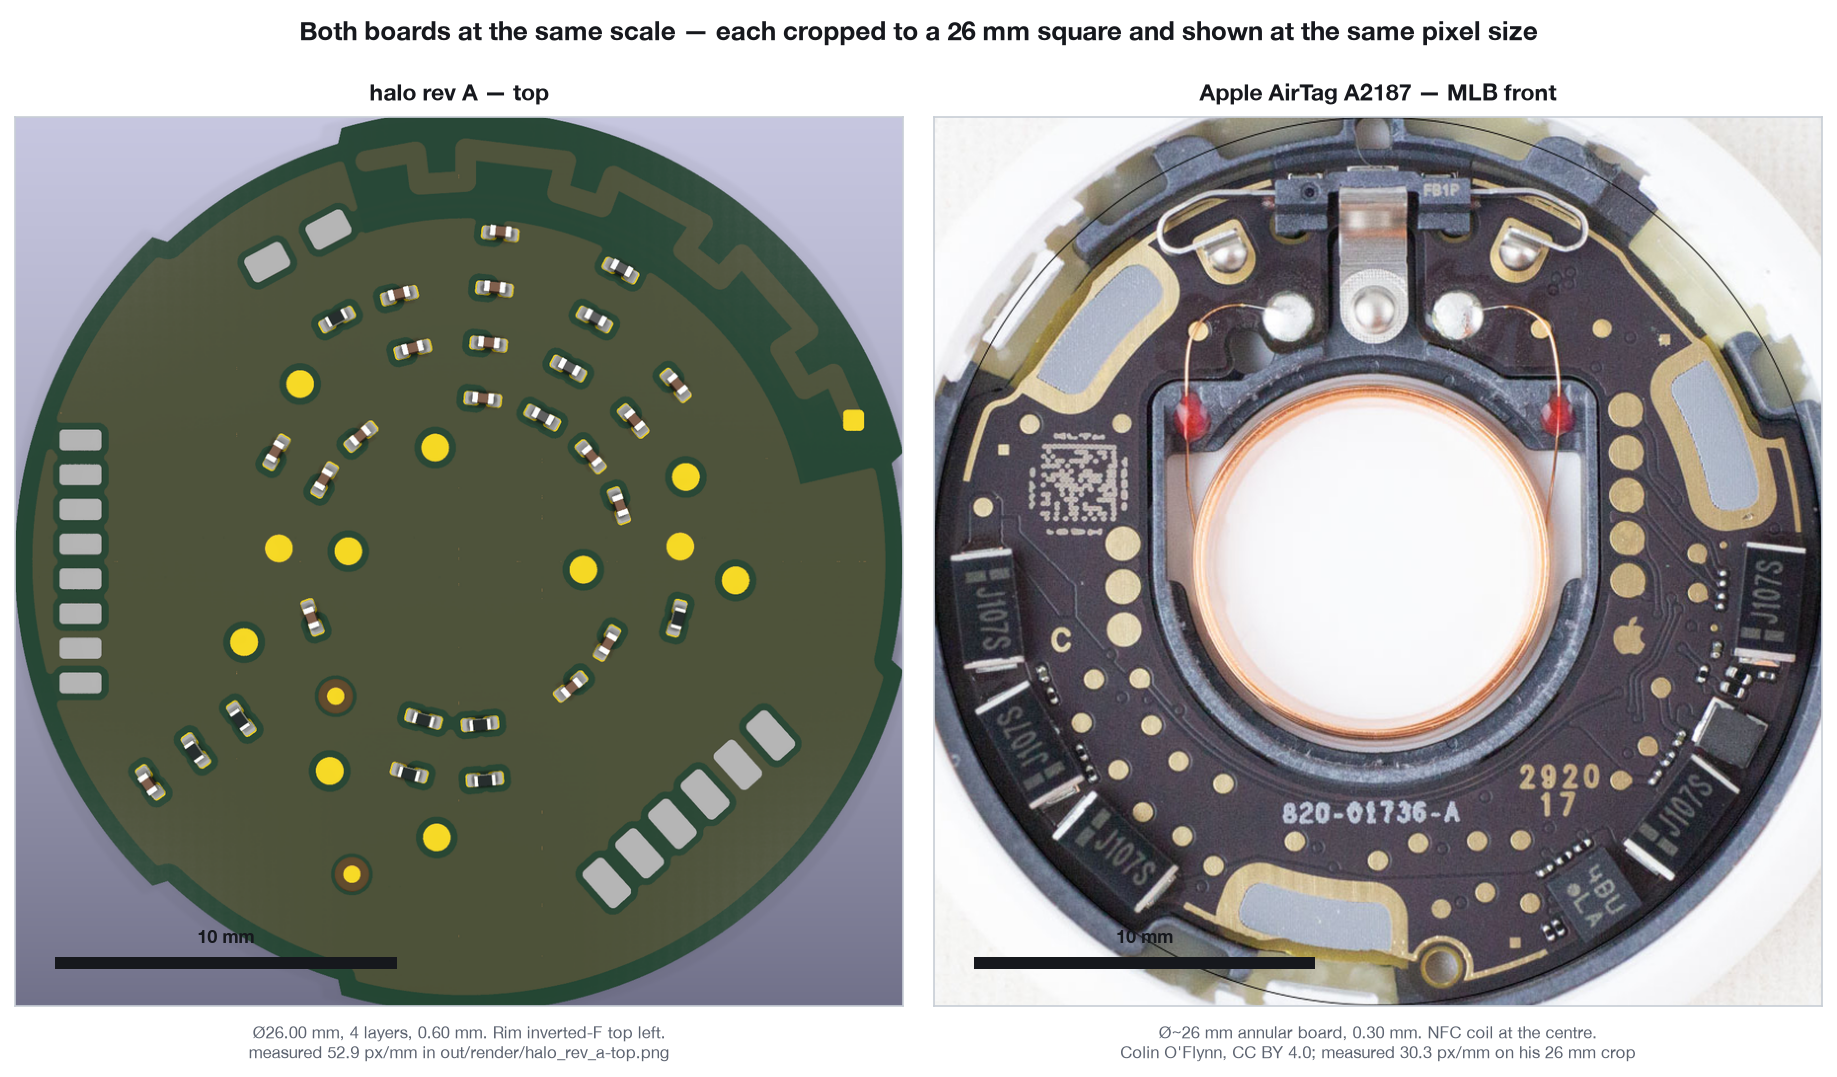
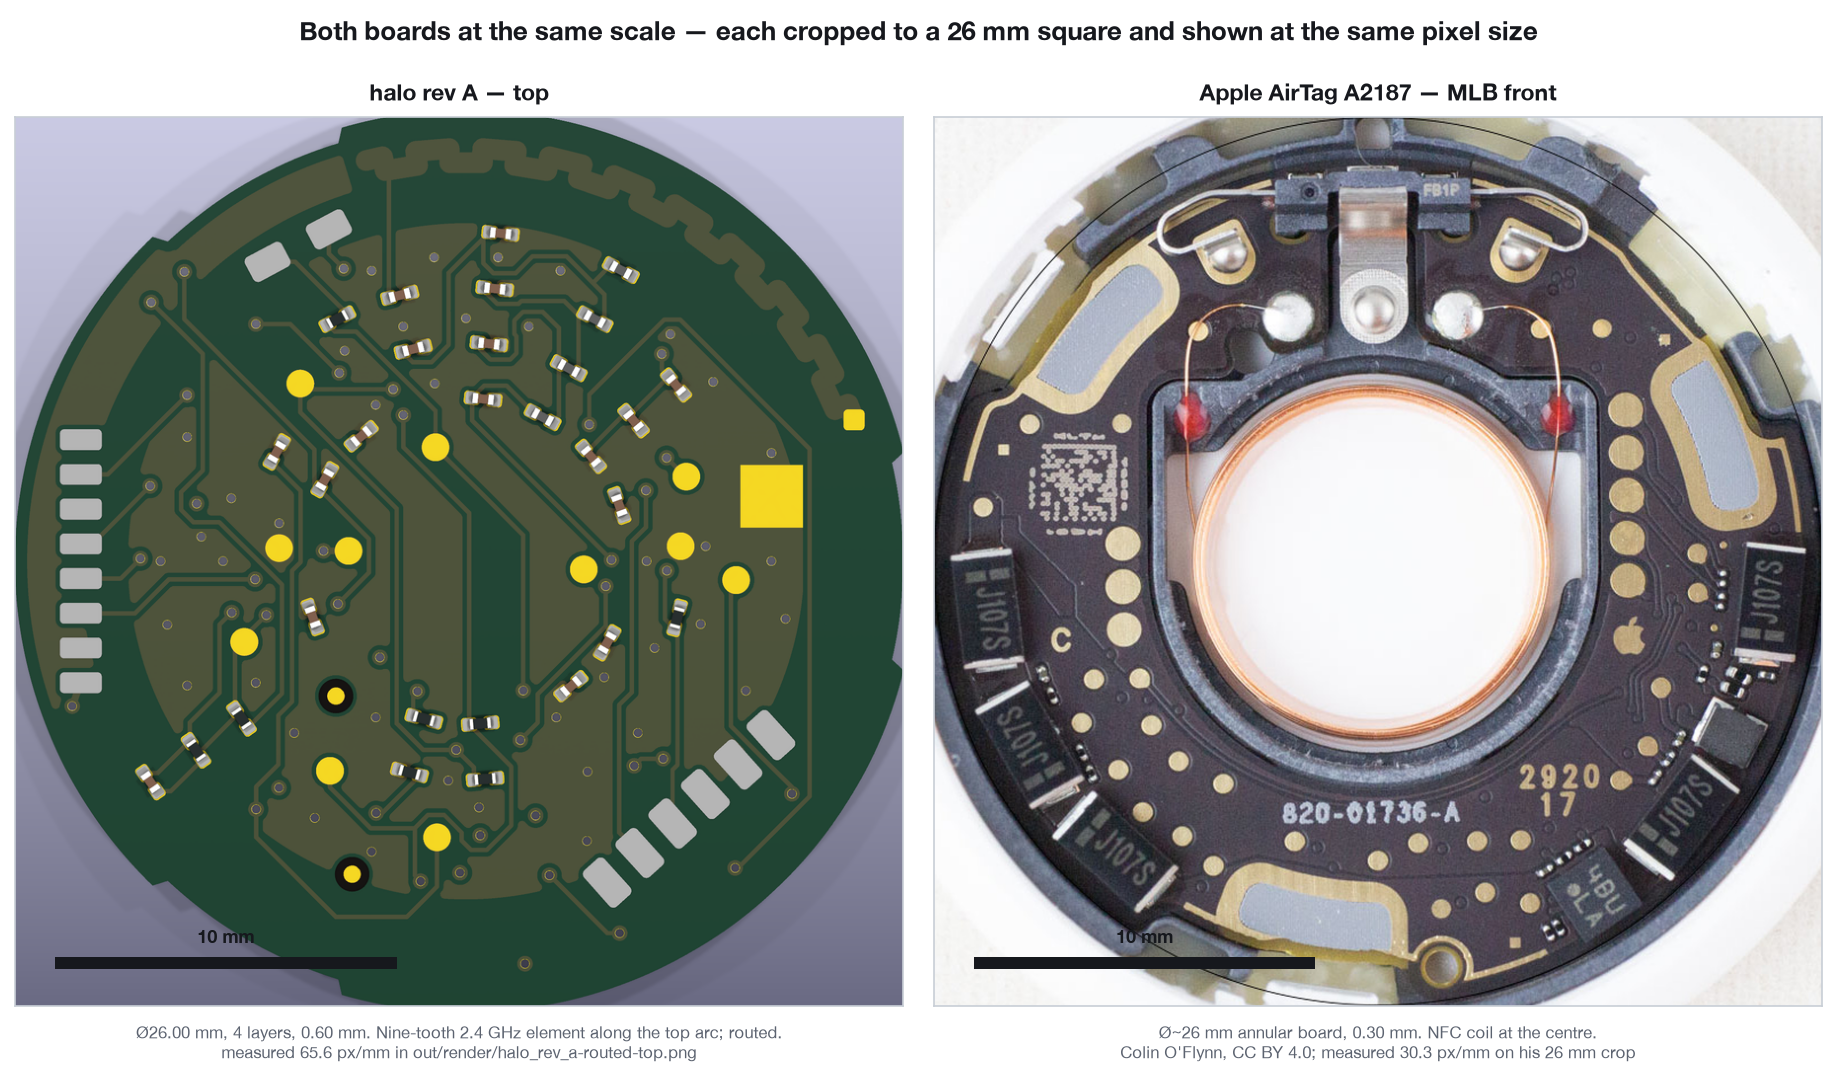
G2: the side-by-side was comparing Apple's board against a halo board that no longer exists
fig-board-side-by-side.png is the picture that most directly answers Leif's
"our current version doesnt look visually similar at all" — and it was built
from out/render/halo_rev_a-top.png, an ad-hoc render from 2026-09-04 22:02 of
an UNROUTED board with a FOUR-tooth antenna. Apple's half was current; halo's
was a day old and a different board.

Repointed at out/render/halo_rev_a-routed-top.png. Safe because the figure
never asserts a scale: _board_bbox() finds the board by its green channel and
re-derives px/mm from the pixels. Measured after: halo 65.6 px/mm (was 52.9),
Apple 30.3 px/mm unchanged, and the 10 mm bars are still the same length by
construction. The caption's "Rim inverted-F top left" went with it — board.py
stopped naming a topology today, because naming one asserts a counterpoise
nobody established.

Gallery now: 72 published, 64 current, 3 STALE, 1 refused.

Claude-Session: https://claude.ai/code/session_01DLBM9xzZTSLgvB55tmrcPa

Changed region(s): [[0.0, 0.0919, 0.4965, 1.0]]

diff --git a/out/gallery/INDEX.html b/out/gallery/INDEX.html
@@ -60,12 +60,12 @@ figure a{display:block;line-height:0}
 .tally span{font-size:.78rem;color:var(--dim)}
 </style><main>
 <h1>halo — the gallery</h1>
-<p class="sub">an open copy of the Apple AirTag · generated 2026-09-05 at 18:27 · commit <span class="mono">f0e17ee</span></p>
+<p class="sub">an open copy of the Apple AirTag · generated 2026-09-05 at 18:29 · commit <span class="mono">c591a9f</span></p>
 <blockquote>“you have shown me renders of the latest design + the documents in the browser” — Leif, 2026-09-05, one of the four conditions of this project being done</blockquote>
 <div class="tally">
 <div><b>72</b><span>images published</span></div>
-<div><b>63</b><span>current — newer than what they show</span></div>
-<div><b>4</b><span>labelled STALE, shown anyway</span></div>
+<div><b>64</b><span>current — newer than what they show</span></div>
+<div><b>3</b><span>labelled STALE, shown anyway</span></div>
 <div><b>5</b><span>reference photos, nothing to be stale against</span></div>
 <div><b>1</b><span>refused, with the reason</span></div>
 </div>
@@ -354,7 +354,7 @@ figure a{display:block;line-height:0}
 <span class="credit mono">ce-designs/halo/out/mech/halo-puck-iso.png · 1240x877 px, stddev 63.8</span>
 </figcaption></figure>
 <figure class="wide">
-<div class="agebar age-CURRENT">CURRENT <span class="n">drawn 2026-09-05 06:09, from ce-designs/halo/tools/gen_gallery_figs.py last written 2026-09-05 06:09 — the picture is the newer of the two</span></div>
+<div class="agebar age-CURRENT">CURRENT <span class="n">drawn 2026-09-05 18:28, from ce-designs/halo/tools/gen_gallery_figs.py last written 2026-09-05 18:28 — the picture is the newer of the two</span></div>
 <a href="img/out-gallery-fig-stack.png" target="_blank" rel="noopener"><img src="img/out-gallery-fig-stack.png" loading="lazy" alt="the stack drawn to scale on both axes, one band per part at its measured z"></a>
 <figcaption><span class="what">the stack drawn to scale on both axes, one band per part at its measured z</span> <span class="badge PASS">PASS</span>
 <span class="why">total 7.980 mm, max Ø31.874 mm, read off the finished solids</span>
@@ -622,7 +622,7 @@ figure a{display:block;line-height:0}
 <p class="lede">Apple&#x27;s own hardware, photographed by other people, and the comparison figures built against it. These photographs have no source in this repository and cannot go stale — nothing here generates them.</p>
 <div class="grid">
 <figure class="wide">
-<div class="agebar age-CURRENT">CURRENT <span class="n">drawn 2026-09-05 06:09, from ce-designs/halo/tools/gen_gallery_figs.py last written 2026-09-05 06:09 — the picture is the newer of the two</span></div>
+<div class="agebar age-CURRENT">CURRENT <span class="n">drawn 2026-09-05 18:28, from ce-designs/halo/tools/gen_gallery_figs.py last written 2026-09-05 18:28 — the picture is the newer of the two</span></div>
 <a href="img/out-gallery-fig-halo-vs-airtag.png" target="_blank" rel="noopener"><img src="img/out-gallery-fig-halo-vs-airtag.png" loading="lazy" alt="the comparison figure: envelope to scale, then mass, antenna gain, cost and the functional gap"></a>
 <figcaption><span class="what">the comparison figure: envelope to scale, then mass, antenna gain, cost and the functional gap</span> <span class="badge PARTIAL">PARTIAL</span>
 <span class="why">Ø31.874 vs Ø31.87 mm and 7.980 vs 7.98 mm PASS; 7.8 g vs 11 g and $6.09 vs $29 PARTIAL; antenna gain FAIL on the shipping element; precision finding FAIL (SPEC.md F9, DECISIONS.md D1/D5)</span>
@@ -630,12 +630,12 @@ figure a{display:block;line-height:0}
 <span class="credit mono">ce-designs/halo/out/gallery/fig-halo-vs-airtag.png · 1739x1543 px, stddev 25.8</span>
 </figcaption></figure>
 <figure class="wide">
-<div class="agebar age-STALE">STALE — DO NOT READ THIS AS CURRENT <span class="n">drawn 2026-09-05 06:10; ce-designs/halo/electronics/halo_rev_a/out/halo_rev_a-routed.kicad_pcb was written 2026-09-05 08:15, which is 2.1 h LATER. This picture is of an earlier state of that file.</span></div>
+<div class="agebar age-CURRENT">CURRENT <span class="n">drawn 2026-09-05 18:28, from ce-designs/halo/electronics/halo_rev_a/out/halo_rev_a-routed.kicad_pcb last written 2026-09-05 08:15 — the picture is the newer of the two</span></div>
 <a href="img/out-gallery-fig-board-side-by-side.png" target="_blank" rel="noopener"><img src="img/out-gallery-fig-board-side-by-side.png" loading="lazy" alt="halo rev A against Apple&#x27;s own board photograph, both cropped to a 26 mm square and shown at one pixel scale — the two 10 mm bars are the same length by construction"></a>
 <figcaption><span class="what">halo rev A against Apple&#x27;s own board photograph, both cropped to a 26 mm square and shown at one pixel scale — the two 10 mm bars are the same length by construction</span> <span class="badge REFERENCE">REFERENCE</span>
-<span class="why">halo Ø26.00 mm measured in the render at 52.9 px/mm; Apple&#x27;s on O&#x27;Flynn&#x27;s own 26 mm crop at 30.3 px/mm. Apple&#x27;s board is a 0.30 mm annular flex-thin board; halo&#x27;s is 0.60 mm and solid — DECISIONS.md D17, a deliberate divergence. NOTE: this figure was built from the SUPERSEDED board render, so halo&#x27;s half of it is the four-tooth unrouted board — which is why it is banded STALE against the .kicad_pcb below</span>
+<span class="why">halo Ø26.00 mm measured in the render at 65.6 px/mm; Apple&#x27;s on O&#x27;Flynn&#x27;s own 26 mm crop at 30.3 px/mm — both re-derived from the pixels, so neither scale is asserted. Apple&#x27;s board is a 0.30 mm annular flex-thin board with the NFC coil at its centre; halo&#x27;s is a solid 0.60 mm disc with the coil in bottom copper — DECISIONS.md D17, a deliberate divergence. Until 2026-09-05 this figure was built from the superseded four-tooth unrouted render; it now names the routed board</span>
 <span class="cmd mono">python3 tools/gen_gallery_figs.py</span>
-<span class="credit mono">ce-designs/halo/out/gallery/fig-board-side-by-side.png · 1837x1077 px, stddev 79.7</span>
+<span class="credit mono">ce-designs/halo/out/gallery/fig-board-side-by-side.png · 1837x1077 px, stddev 82.2</span>
 </figcaption></figure>
 <figure class="">
 <a href="img/images-airtag-oflynn-frontside-tpnames.jpg" target="_blank" rel="noopener"><img src="img/images-airtag-oflynn-frontside-tpnames.jpg" loading="lazy" alt="Apple&#x27;s board, top, with every test point numbered — the map halo&#x27;s pinout was read against"></a>
@@ -681,7 +681,6 @@ figure a{display:block;line-height:0}
 <h2 id="ages">8 · Every image, and how old it is</h2>
 <p class="lede">The whole freshness table in one place, so nobody has to scroll to find out whether they are looking at today's work.</p>
 <table><tr><th>image</th><th>state</th><th>against what, and when</th></tr>
-<tr><td class="mono">ce-designs/halo/out/gallery/fig-board-side-by-side.png</td><td class="badge FAIL">STALE</td><td>drawn 2026-09-05 06:10; ce-designs/halo/electronics/halo_rev_a/out/halo_rev_a-routed.kicad_pcb was written 2026-09-05 08:15, which is 2.1 h LATER. This picture is of an earlier state of that file.</td></tr>
 <tr><td class="mono">ce-designs/halo/out/mech/halo-puck-section-front.png</td><td class="badge FAIL">STALE</td><td>drawn 2026-09-04 12:11; ce-designs/halo/design.py was written 2026-09-04 12:30, which is 19 min LATER. This picture is of an earlier state of that file.</td></tr>
 <tr><td class="mono">ce-designs/halo/out/render/halo_rev_a-bottom.png</td><td class="badge FAIL">STALE</td><td>drawn 2026-09-04 22:03; ce-designs/halo/electronics/halo_rev_a/out/halo_rev_a-routed.kicad_pcb was written 2026-09-05 08:15, which is 10.2 h LATER. This picture is of an earlier state of that file.</td></tr>
 <tr><td class="mono">ce-designs/halo/out/render/halo_rev_a-top.png</td><td class="badge FAIL">STALE</td><td>drawn 2026-09-04 22:02; ce-designs/halo/electronics/halo_rev_a/out/halo_rev_a-routed.kicad_pcb was written 2026-09-05 08:15, which is 10.2 h LATER. This picture is of an earlier state of that file.</td></tr>
@@ -691,8 +690,9 @@ figure a{display:block;line-height:0}
 <tr><td class="mono">ce-designs/halo/images/airtag/oflynn-backside-1000px.jpeg</td><td class="badge CD">UNGOVERNED</td><td></td></tr>
 <tr><td class="mono">ce-designs/halo/images/airtag/oflynn-frontside-tpnames.jpg</td><td class="badge CD">UNGOVERNED</td><td></td></tr>
 <tr><td class="mono">ce-designs/halo/out/gallery/fig-antenna-trajectory.png</td><td class="badge PASS">CURRENT</td><td>drawn 2026-09-05 18:11, from ce-designs/halo/tools/gen_antenna_trajectory.py last written 2026-09-05 18:11 — the picture is the newer of the two</td></tr>
-<tr><td class="mono">ce-designs/halo/out/gallery/fig-halo-vs-airtag.png</td><td class="badge PASS">CURRENT</td><td>drawn 2026-09-05 06:09, from ce-designs/halo/tools/gen_gallery_figs.py last written 2026-09-05 06:09 — the picture is the newer of the two</td></tr>
-<tr><td class="mono">ce-designs/halo/out/gallery/fig-stack.png</td><td class="badge PASS">CURRENT</td><td>drawn 2026-09-05 06:09, from ce-designs/halo/tools/gen_gallery_figs.py last written 2026-09-05 06:09 — the picture is the newer of the two</td></tr>
+<tr><td class="mono">ce-designs/halo/out/gallery/fig-board-side-by-side.png</td><td class="badge PASS">CURRENT</td><td>drawn 2026-09-05 18:28, from ce-designs/halo/electronics/halo_rev_a/out/halo_rev_a-routed.kicad_pcb last written 2026-09-05 08:15 — the picture is the newer of the two</td></tr>
+<tr><td class="mono">ce-designs/halo/out/gallery/fig-halo-vs-airtag.png</td><td class="badge PASS">CURRENT</td><td>drawn 2026-09-05 18:28, from ce-designs/halo/tools/gen_gallery_figs.py last written 2026-09-05 18:28 — the picture is the newer of the two</td></tr>
+<tr><td class="mono">ce-designs/halo/out/gallery/fig-stack.png</td><td class="badge PASS">CURRENT</td><td>drawn 2026-09-05 18:28, from ce-designs/halo/tools/gen_gallery_figs.py last written 2026-09-05 18:28 — the picture is the newer of the two</td></tr>
 <tr><td class="mono">ce-designs/halo/out/mech/halo-battery-contact-pos-a.png</td><td class="badge PASS">CURRENT</td><td>drawn 2026-09-04 17:04, from ce-designs/halo/design.py last written 2026-09-04 12:30 — the picture is the newer of the two</td></tr>
 <tr><td class="mono">ce-designs/halo/out/mech/halo-battery-door.png</td><td class="badge PASS">CURRENT</td><td>drawn 2026-09-04 17:04, from ce-designs/halo/design.py last written 2026-09-04 12:30 — the picture is the newer of the two</td></tr>
 <tr><td class="mono">ce-designs/halo/out/mech/halo-carrier.png</td><td class="badge PASS">CURRENT</td><td>drawn 2026-09-04 17:04, from ce-designs/halo/design.py last written 2026-09-04 12:30 — the picture is the newer of the two</td></tr>
@@ -767,5 +767,5 @@ figure a{display:block;line-height:0}
 <tr><td><b>A render of the board board.py currently describes</b></td><td>board.py was last written 2026-09-05 14:50:31 and neither .kicad_pcb on disk has been regenerated since — they are 07:54 and 08:15. Every board picture here is therefore current for a file on disk and NOT necessarily for the board lane B1 is now describing. Rendering board.py would mean running lane B1&#x27;s generator, which is not this lane&#x27;s to run.</td></tr>
 <tr><td><b>ce-rf/out/halo-rev-a-2g4-meander9-bare/pattern.png</b></td><td>STALE and refused — a simulation plot older than its own run is a picture of a solve that was superseded. drawn 2026-09-05 09:34; ce-rf/out/halo-rev-a-2g4-meander9-bare/model.json was written 2026-09-05 15:25, which is 5.9 h LATER. This picture is of an earlier state of that file.</td></tr>
 </table>
-<p class="meta">Regenerate with <code>python3 tools/gen_gallery.py</code>. The board renders come from <code>python3 tools/gen_board_renders.py</code>, the solid renders from <code>bin/cad ce-designs/halo/tools/gen_gallery_renders.py</code>, the antenna trajectory from <code>python3 tools/gen_antenna_trajectory.py</code> and the comparison figures from <code>python3 tools/gen_gallery_figs.py</code>. Images are copied into <code>out/gallery/img/</code> so this page is self-contained; the originals stay in the lanes that own them (<code>out/mech</code>, <code>ce-rf</code>, <code>ce-spice</code>, <code>images/airtag</code>) and are never written to from here. Verdict of this page: <b>PARTIAL</b> — 4 stale, 1 refused.</p>
+<p class="meta">Regenerate with <code>python3 tools/gen_gallery.py</code>. The board renders come from <code>python3 tools/gen_board_renders.py</code>, the solid renders from <code>bin/cad ce-designs/halo/tools/gen_gallery_renders.py</code>, the antenna trajectory from <code>python3 tools/gen_antenna_trajectory.py</code> and the comparison figures from <code>python3 tools/gen_gallery_figs.py</code>. Images are copied into <code>out/gallery/img/</code> so this page is self-contained; the originals stay in the lanes that own them (<code>out/mech</code>, <code>ce-rf</code>, <code>ce-spice</code>, <code>images/airtag</code>) and are never written to from here. Verdict of this page: <b>PARTIAL</b> — 3 stale, 1 refused.</p>
 </main></html>

diff --git a/out/gallery/STATE.html b/out/gallery/STATE.html
@@ -41,7 +41,7 @@ ul{padding-left:1.2rem} li{margin:.35rem 0}
 .cond span{font-size:.78rem;color:var(--dim);display:block;margin-top:.3rem}
 </style><main>
 <h1>halo — where it stands</h1>
-<p class="sub">generated 2026-09-05 18:25 · commit <span class="mono">73f983f</span> · <a href="INDEX.html">the full gallery →</a></p>
+<p class="sub">generated 2026-09-05 18:29 · commit <span class="mono">c591a9f</span> · <a href="INDEX.html">the full gallery →</a></p>
 <h2>What halo is</h2>
 <p class="what">An <b>open copy of the Apple AirTag</b>: a Ø31.874 × 7.980 mm puck that a factory could build. Inside it is a Ø26.00 mm four-layer 0.60 mm board carrying a Nordic nRF54L10, an NFC coil wound in bottom copper, a piezo sounder, a CR2032 on three sprung contacts, and a 2.4 GHz antenna etched into the board's own top copper. It advertises on Apple's Find My network. It does <b>not</b> do precision finding — that needs Apple's U1, which nobody else can buy — and it is not a visual replica of the AirTag; it is a function-for-function one, on a board redrawn rather than copied so no licence follows it.</p>
 <p class="what">Nothing has been moulded, stamped or printed. Every picture on this site is a render of a solid or a plot of a solve, and every one of them says how old it is.</p>
@@ -55,7 +55,7 @@ ul{padding-left:1.2rem} li{margin:.35rem 0}
 <div><b>Manufacturable</b><span class="badge FAIL">FAIL</span><span>28 rules checked against JLC&#x27;s 4-layer capability, 2 FAIL: smd_pad_min (narrowest side of any of 254 SMD pads. Solderable lands: 0.2 mm over 175; net-tie pads (copper join, nothing soldered …</span></div>
 <div><b>A factory has answered</b><span class="badge FAIL">FAIL</span><span>REFUSED, and nothing was sent. 3 of 7 gates FAIL: G3-fresh — 3 of 3 artifact(s) are older than halo_rev_a.kicad_pcb, the worst by 6,461 s (1.8 h). They were exported from ; G5-routed — 83 un…</span></div>
 <div><b>Simulated honestly</b><span class="badge FAIL">FAIL</span><span>latest solve halo-rev-a-2g4-rt1-passive: -11.806 dBi at 2.3730 GHz. Best ever measured on this element: -3.391 dBi at 2.0669 GHz (halo-rev-a-2g4-meander9-passive). Apple&#x27;s filed figure is −3…</span></div>
-<div><b>Leif can see it</b><span class="badge PARTIAL">PARTIAL</span><span>72 images published, 63 current, 4 labelled STALE, 1 refused outright. Every one names the file whose timestamp governs it.</span></div>
+<div><b>Leif can see it</b><span class="badge PARTIAL">PARTIAL</span><span>72 images published, 64 current, 3 labelled STALE, 1 refused outright. Every one names the file whose timestamp governs it.</span></div>
 </div>
 <h2>What is measured</h2>
 <p>Every row is read out of a file at the moment this page is built. A row whose file could not be read says so and is never rendered as a pass.</p>
@@ -71,7 +71,7 @@ ul{padding-left:1.2rem} li{margin:.35rem 0}
 <tr><td class="k">The release pack</td><td><span class="badge PARTIAL">PARTIAL</span></td><td>7 ready · 4 partial of the eleven artifacts a factory needs</td></tr>
 <tr><td class="k">A factory quote</td><td><span class="badge FAIL">FAIL</span></td><td>REFUSED, and nothing was sent. 3 of 7 gates FAIL: G3-fresh — 3 of 3 artifact(s) are older than halo_rev_a.kicad_pcb, the worst by 6,461 s (1.8 h). They were exported from ; G5-routed — 83 unconnected item(s). `fab dfm` is right not to FAIL on this — there is no copper to measure against a capab; G6-dfm — 2 rule(s) FAIL: smd_pad_min, smt_min_package</td></tr>
 <tr><td class="k">The factory&#x27;s own API</td><td><span class="badge CD">CANNOT DETERMINE</span></td><td>transport reaches JLCPCB; no approved app, so no quote. the gateway parsed our JOP Authorization header and answered 401 &#x27;application not exists&#x27; — the header shape is right and the wall is the missing approved app</td></tr>
-<tr><td class="k">What you can look at</td><td><span class="badge PARTIAL">PARTIAL</span></td><td>72 images published, 63 current, 4 labelled STALE, 1 refused outright. Every one names the file whose timestamp governs it.</td></tr>
+<tr><td class="k">What you can look at</td><td><span class="badge PARTIAL">PARTIAL</span></td><td>72 images published, 64 current, 3 labelled STALE, 1 refused outright. Every one names the file whose timestamp governs it.</td></tr>
 </table>
 <h2>What is open</h2>
 <p>The things that would stop this shipping, in the order they matter. None of them is hidden anywhere else on this site.</p>

diff --git a/tools/gen_gallery.py b/tools/gen_gallery.py
@@ -741,14 +741,16 @@ SECTIONS = [
                          "length by construction",
                          "REFERENCE",
                          "halo Ø26.00 mm measured in the render at "
-                         "52.9 px/mm; Apple's on O'Flynn's own 26 mm crop "
-                         "at 30.3 px/mm. Apple's board is a 0.30 mm "
-                         "annular flex-thin board; halo's is 0.60 mm and "
-                         "solid — DECISIONS.md D17, a deliberate divergence. "
-                         "NOTE: this figure was built from the SUPERSEDED "
-                         "board render, so halo's half of it is the "
-                         "four-tooth unrouted board — which is why it is "
-                         "banded STALE against the .kicad_pcb below",
+                         "65.6 px/mm; Apple's on O'Flynn's own 26 mm crop "
+                         "at 30.3 px/mm — both re-derived from the pixels, "
+                         "so neither scale is asserted. Apple's board is a "
+                         "0.30 mm annular flex-thin board with the NFC coil "
+                         "at its centre; halo's is a solid 0.60 mm disc "
+                         "with the coil in bottom copper — DECISIONS.md "
+                         "D17, a deliberate divergence. Until 2026-09-05 "
+                         "this figure was built from the superseded "
+                         "four-tooth unrouted render; it now names the "
+                         "routed board",
                          source=PCB_ROUTED),
             airtag_card("oflynn-frontside-tpnames.jpg",
                         "Apple's board, top, with every test point numbered "

diff --git a/tools/gen_gallery_figs.py b/tools/gen_gallery_figs.py
@@ -319,7 +319,15 @@ def _board_bbox(path):
 
 
 def fig_boards():
-    halo_p = os.path.join(ROOT, "out", "render", "halo_rev_a-top.png")
+    # THE ROUTED board, rendered by tools/gen_board_renders.py from the
+    # .kicad_pcb on disk. This pointed at out/render/halo_rev_a-top.png until
+    # 2026-09-05, which was an ad-hoc render from the previous evening of an
+    # UNROUTED board with a FOUR-tooth antenna. The figure was therefore
+    # comparing Apple's shipped board against a halo board that no longer
+    # existed. The scale is measured off whichever render this names, so
+    # repointing it is safe: _board_bbox() re-derives px/mm from the pixels.
+    halo_p = os.path.join(ROOT, "out", "render",
+                          "halo_rev_a-routed-top.png")
     apple_p = os.path.join(ROOT, "images", "airtag",
                            "oflynn-frontside-26mm-cropped.jpg")
     halo_im = Image.open(halo_p).convert("RGB")
@@ -349,8 +357,9 @@ def fig_boards():
     fig, axes = plt.subplots(1, 2, figsize=(12.4, 7.0), dpi=150)
     for ax, im, ttl, sub in [
             (axes[0], h_sq, "halo rev A — top",
-             "Ø26.00 mm, 4 layers, 0.60 mm. Rim inverted-F top left.\n"
-             "measured %.1f px/mm in out/render/halo_rev_a-top.png"
+             "Ø26.00 mm, 4 layers, 0.60 mm. Nine-tooth 2.4 GHz "
+             "element along the top arc; routed.\n"
+             "measured %.1f px/mm in out/render/halo_rev_a-routed-top.png"
              % halo_px_per_mm),
             (axes[1], a_sq, "Apple AirTag A2187 — MLB front",
              "Ø~26 mm annular board, 0.30 mm. NFC coil at the centre.\n"
